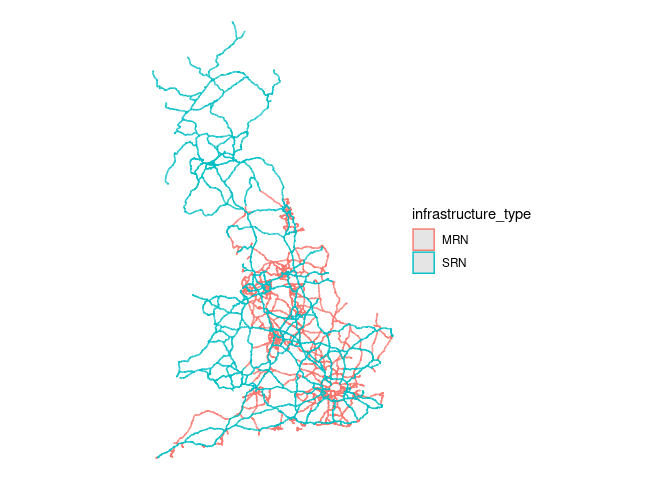
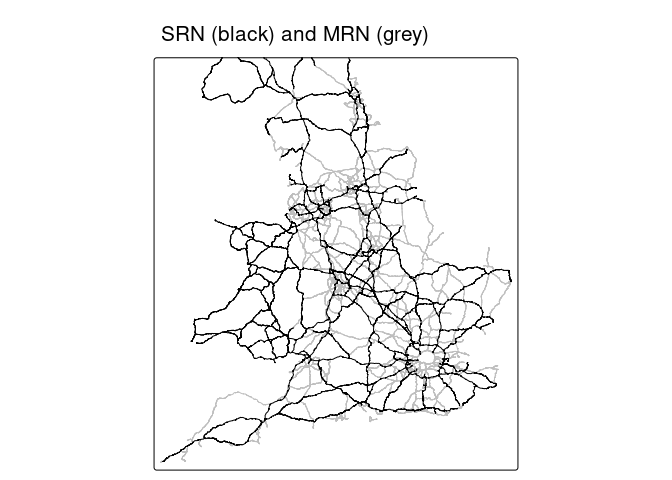
Various updates, close #2

Changed region(s): [[0.2188, 0.0312, 0.8125, 1.0], [0.2188, 0.3438, 0.25, 0.4062], [0.25, 0.4062, 0.2812, 0.4375]]

diff --git a/README.md b/README.md
@@ -8,7 +8,7 @@ potential and severance around major transport infrastructure.
 
 # Input datasets
 
-## SRN and MRN
+## Major road network
 
 The Strategic Road Network (SRN) and Major Road Network (MRN) are
 illustrated below (source: [browse tool of
@@ -21,27 +21,51 @@ follows with R:
 
 ``` r
 mrn_srn = rbind(mrn, srn)
-mrn_srn |>
-  ggplot() +
-  geom_sf(aes(color = infrastructure_type)) +
-  theme_void()
+# mrn_srn |>
+#   ggplot() +
+#   geom_sf(aes(color = infrastructure_type)) +
+#   theme_void() 
+names(mrn_srn)
+```
+
+    [1] "name"                "road_function"       "form_of_way"        
+    [4] "road_classification" "infrastructure_type" "geom"               
+
+``` r
+mrn |>
+  tm_shape() +
+  tm_lines(col = "grey") +
+  tm_shape(srn) +
+  tm_lines() +
+  tm_title("SRN (black) and MRN (grey)", just = c("center", "top"))
 ```
 
 ![](README_files/figure-commonmark/combine-srn-mrn-1.png)
 
+The main focus of the analysis presented in this report is the SRN, the
+road network controlled by National Highways (NH).
+
+## Active travel potential
+
+Data on active travel potential was taken from the Propensity to Cycle
+Tool (PCT), a Department for Transport funded project that builds on
+official data to model cycling potential nationwide. In future we would
+like to add data representing walking potential, possibly based on
+travel to school data.
+
 # Active travel potential
 
-As a first approximation of active travel potential, we’ll calculate
-cycling potential from the Propensity to Cycle Tool (PCT) data. We’ll
-aggregate to 1 km resolution so the operations work fast for national
-data, as a starter for 10, and smooth the data to remove noise.
+As a first approximation of active travel potential, we calculated
+cycling potential from the Propensity to Cycle Tool (PCT) data. To
+ensure consistency across areas, we defined ‘cycling potential’ in this
+case as the distance that could be cycled *within* each grid cell,
+reducing the influence of variable road lengths on the results (10 100 m
+segments with cycling potential of 20 has the same impact as a single 5
+km segment with cycling potential of 20 trips per day). We’ll aggregate
+to 5 km resolution so the operations work fast for national data, as a
+starter for 10, and smooth the data to remove noise.
 
-     [1] "local_id"            "bicycle"             "govtarget_slc"      
-     [4] "govnearmkt_slc"      "gendereq_slc"        "dutch_slc"          
-     [7] "ebike_slc"           "segment_length_km"   "cycling_km_baseline"
-    [10] "cycling_km_go_dutch" "geom"               
-
-We’ll convert the pct linestring data to a 1 km raster grid with the
+We’ll convert the pct linestring data to a 5 km raster grid with the
 {terra} package.
 
 ![](README_files/figure-commonmark/pct-raster-1.png)
